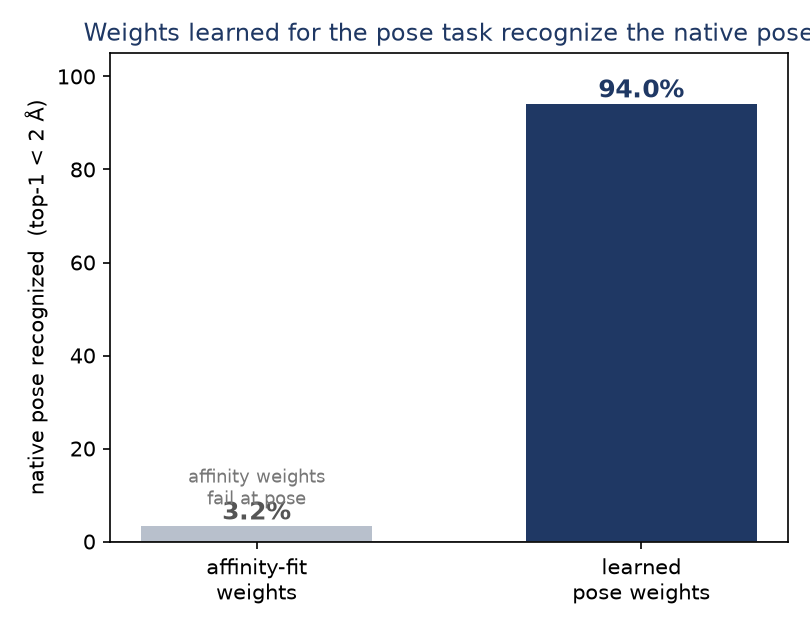
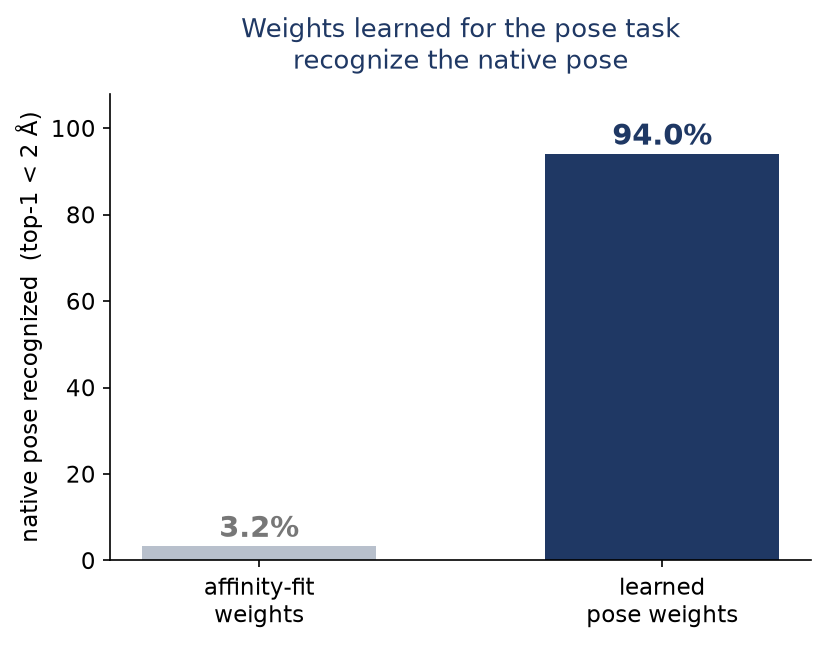
Results: affinity scatter (r/RMSE) replaces channel-climb; slide 17 placeholder + bullets
- figures/affinity_scatter.png, accuracy_two_weights.png, eval_metrics.png (held-out
  evaluation; affinity Pearson r=0.52 RMSE=1.48, pose 94% top-1)
- slide17 figure spec: presentation/slide17_figure_prompt.md (new-ligand inference flow)
- src/aff_scatter.py, acc_fig.py, eval_fig.py, pr_fix.py
- pose_recognition.png regenerated (no text/bar overlap)

Changed region(s): [[0.0, 0.0302, 1.0, 0.9651]]

diff --git a/src/eval_fig.py b/src/eval_fig.py
@@ -1,0 +1,69 @@
+"""Slide-17 evaluation figure (2 panels):
+ A) affinity: predicted vs experimental pKd (held-out test) -> Pearson r, RMSE
+ B) pose: score vs RMSD funnel (learned w_pose) -> Spearman
+"""
+import sys
+from pathlib import Path
+import numpy as np, pandas as pd
+import matplotlib
+matplotlib.use("Agg")
+import matplotlib.pyplot as plt
+from scipy.stats import pearsonr, spearmanr
+from scipy.spatial import cKDTree
+from sklearn.ensemble import GradientBoostingRegressor
+sys.path.insert(0, str(Path.home()/"screen/src"))
+import v5_features as V5
+from v7_pose import fit_v5_model, compute8, rigid_decoys
+ROOT=Path.home()/"screen"; NAVY="#1F3864"; GOLD="#C8A94B"
+model=fit_v5_model(ROOT/"out/v5/v5_features.npz",ROOT/"out/v1/manifest.csv")
+names,mean,scale,coef,b=model
+W=np.load(ROOT/"out/w_pose.npy")
+
+# --- Panel A: affinity scatter (GBR, held-out test) ---
+d=np.load(ROOT/"out/v5/v5_features.npz",allow_pickle=True)
+feat=pd.DataFrame(d["X"],columns=names); feat["id"]=[str(x) for x in d["ids"]]
+man=pd.read_csv(ROOT/"out/v1/manifest.csv"); df=man.merge(feat,on="id").dropna(subset=names)
+tr=df[df.split=="train"]; te=df[df.split=="test"]
+gbr=GradientBoostingRegressor(random_state=0).fit(tr[names].values,tr["pKd"].values)
+yte=te["pKd"].values; pte=gbr.predict(te[names].values)
+rA=pearsonr(yte,pte)[0]; rmseA=float(np.sqrt(np.mean((yte-pte)**2)))
+
+# --- Panel B: pose funnel (learned weights, ~150 test complexes, z-scored) ---
+rng=np.random.default_rng(2); ids=man[man.split=="test"]["id"].sample(150,random_state=2).tolist()
+allr=[]; allz=[]; rhos=[]
+for code in ids:
+    p=V5.find_complex(str(ROOT/"data"),code)
+    if p is None or not p[0].exists(): continue
+    try:
+        lig,_=V5.load_ligand(p[1],p[2]); rec=V5.parse_pocket(p[0])
+    except Exception: continue
+    if lig is None or len(rec[0])==0: continue
+    rxyz,rel,rdon,racc,rhyd,rnbr,rq,rcharged=rec; native=lig["xyz"]
+    r2=np.random.default_rng(int(__import__("hashlib").md5(code.encode()).hexdigest(),16)%2**32)
+    poses=[native]+rigid_decoys(native,40,r2)
+    sc=[]; rm=[]
+    for P in poses:
+        l2=dict(lig); l2["xyz"]=P; l2["nbr"]=V5._neighbor_centroid(P,cKDTree(P))
+        F=compute8(l2,rxyz,rel,rdon,racc,rhyd,rnbr,rq,rcharged,P)
+        sc.append(((F-mean)/scale)@W); rm.append(float(np.sqrt(((P-native)**2).sum(1).mean())))
+    sc=np.array(sc); rm=np.array(rm)
+    z=(sc-sc.mean())/(sc.std()+1e-9)
+    allr+=rm.tolist(); allz+=z.tolist()
+    rh=spearmanr(sc,rm)[0]
+    if np.isfinite(rh): rhos.append(rh)
+medrho=float(np.median(rhos))
+
+fig,ax=plt.subplots(1,2,figsize=(10.5,4.4))
+# A
+ax[0].scatter(yte,pte,s=7,alpha=0.25,color=NAVY,edgecolors="none")
+lo,hi=min(yte.min(),pte.min()),max(yte.max(),pte.max())
+ax[0].plot([lo,hi],[lo,hi],"--",color="#C0392B",lw=1.2)
+ax[0].set_xlabel("experimental pKd"); ax[0].set_ylabel("predicted pKd")
+ax[0].set_title(f"Affinity (held-out test)\nPearson r = {rA:.2f}   RMSE = {rmseA:.2f}",fontsize=11,color=NAVY)
+# B
+ax[1].scatter(allr,allz,s=5,alpha=0.15,color=GOLD,edgecolors="none")
+ax[1].set_xlabel("RMSD to native (Å)"); ax[1].set_ylabel("score (z per complex)")
+ax[1].set_title(f"Pose funnel (learned weights)\nmedian Spearman(score, RMSD) = {medrho:+.2f}",fontsize=11,color=NAVY)
+ax[1].invert_yaxis()
+fig.tight_layout(); fig.savefig(ROOT/"out/eval_metrics.png",dpi=150,bbox_inches="tight")
+print(f"wrote eval_metrics.png  affinity r={rA:.3f} rmse={rmseA:.3f}  pose medrho={medrho:.3f}")

diff --git a/src/acc_fig.py b/src/acc_fig.py
@@ -1,0 +1,42 @@
+"""Two weight sets, two accuracies:
+ Left  - w_affinity: predicted vs experimental pKd (held-out test) -> Pearson r, RMSE
+ Right - w_pose: native-pose recognition (top-1<2A), learned pose weights vs affinity weights
+"""
+import json
+from pathlib import Path
+import numpy as np, pandas as pd
+import matplotlib
+matplotlib.use("Agg")
+import matplotlib.pyplot as plt
+from scipy.stats import pearsonr
+from sklearn.ensemble import GradientBoostingRegressor
+import sys; sys.path.insert(0,str(Path.home()/"screen/src"))
+from v7_pose import fit_v5_model
+ROOT=Path.home()/"screen"; NAVY="#1F3864"; GRAY="#B8C0CC"
+names,mean,scale,coef,b=fit_v5_model(ROOT/"out/v5/v5_features.npz",ROOT/"out/v1/manifest.csv")
+d=np.load(ROOT/"out/v5/v5_features.npz",allow_pickle=True)
+feat=pd.DataFrame(d["X"],columns=names); feat["id"]=[str(x) for x in d["ids"]]
+man=pd.read_csv(ROOT/"out/v1/manifest.csv"); df=man.merge(feat,on="id").dropna(subset=names)
+tr=df[df.split=="train"]; te=df[df.split=="test"]
+gbr=GradientBoostingRegressor(random_state=0).fit(tr[names].values,tr["pKd"].values)
+yte=te["pKd"].values; pte=gbr.predict(te[names].values)
+rA=pearsonr(yte,pte)[0]; rmseA=float(np.sqrt(np.mean((yte-pte)**2)))
+ev=json.load(open(ROOT/"out/pose_eval.json"))
+va=ev["AFFINITY-fit w"]["top1"]; vp=ev["LEARNED (pose)"]["top1"]
+
+fig,ax=plt.subplots(1,2,figsize=(10.4,4.5))
+# left: affinity accuracy
+ax[0].scatter(yte,pte,s=7,alpha=0.22,color=NAVY,edgecolors="none")
+lo,hi=min(yte.min(),pte.min()),max(yte.max(),pte.max())
+ax[0].plot([lo,hi],[lo,hi],"--",color="#C0392B",lw=1.2)
+ax[0].set_xlabel("experimental pKd"); ax[0].set_ylabel("predicted pKd")
+ax[0].set_title(f"Affinity weights  →  binding-strength accuracy\nPearson r = {rA:.2f}   RMSE = {rmseA:.2f}",fontsize=11,color=NAVY)
+# right: pose accuracy
+bars=ax[1].bar(["affinity-fit\nweights","learned\npose weights"],[va,vp],color=[GRAY,NAVY],width=0.58)
+for bb,v in zip(bars,[va,vp]):
+    ax[1].text(bb.get_x()+bb.get_width()/2,v+2.2,f"{v:.1f}%",ha="center",fontsize=13,fontweight="bold",color=NAVY if v>50 else "#777")
+ax[1].set_ylim(0,108); ax[1].set_ylabel("native pose recognized (top-1 < 2 Å)")
+ax[1].set_title("Pose weights  →  native-pose accuracy",fontsize=11,color=NAVY)
+ax[1].spines["top"].set_visible(False); ax[1].spines["right"].set_visible(False)
+fig.tight_layout(); fig.savefig(ROOT/"out/accuracy_two_weights.png",dpi=150,bbox_inches="tight")
+print(f"wrote accuracy_two_weights.png  affinity r={rA:.3f} rmse={rmseA:.3f}  pose {va:.1f}/{vp:.1f}")

diff --git a/presentation/slide17_figure_prompt.md b/presentation/slide17_figure_prompt.md
@@ -1,0 +1,38 @@
+# Slide 17 figure — drawing spec (for GPT / image generation)
+
+Slide 17 = **"Inference and Evaluation"**. The figure's job is to make **what happens to a NEW
+ligand** immediately clear — a single left-to-right flow from an unseen molecule to a ranked
+hit. (Evaluation metrics live in the slide's bullets, not in this figure.) Flat academic vector
+style, navy (#1F3864) + gold (#C8A94B), white background, Arial-like font, wide.
+
+## The flow — a NEW ligand, left → right (this is the whole figure)
+
+1. **New ligand** — one unseen molecule pulled from a library (show a faint stack of other
+   molecules behind it to signal "screening a library"). Label: "new molecule (no known pose)".
+
+2. **→ Multi-channel scalar fields** — the ligand rendered as a small stack of field cubes
+   (contact / H-bond / hydrophobic / …). Label: "render as fields".
+
+3. **→ Pose search with w_pose** — icon: a score curve E(θ) with a **star at its peak**;
+   the ligand snaps into the pocket. Label: "search poses (FFT + torsion) → predicted pose".
+   This box uses the **pose weight set (w_pose)** — color it one accent (e.g. navy).
+
+4. **→ Affinity score with w_affinity** — at that pose, read out a predicted binding strength
+   (a small bar or number). Label: "score the pose → predicted affinity". This box uses the
+   **affinity weight set (w_affinity)** — color it the other accent (e.g. gold).
+
+5. **→ Ranked hits** — a sorted bar chart / list of library molecules, top few highlighted.
+   Label: "rank the library → hit candidates".
+
+### Must be obvious from the picture
+- **Two weight sets, used in sequence:** w_pose (step 3, *where it binds*) then w_affinity
+  (step 4, *how strongly*). Two distinct colors, two labeled boxes.
+- The input is a **new, unseen** ligand with **no crystal pose** — the system produces the pose.
+
+## Honesty note (small caption, keep it)
+- Current validation is cognate redocking / a local funnel; **blind pose generation from
+  scratch is future work.** Draw the flow, but don't imply blind docking is already solved.
+
+## Style
+- One clean horizontal pipeline, thin left→right arrows, rounded-rectangle blocks,
+  2 accent colors only (navy = pose, gold = affinity), no photorealism, short labels.
